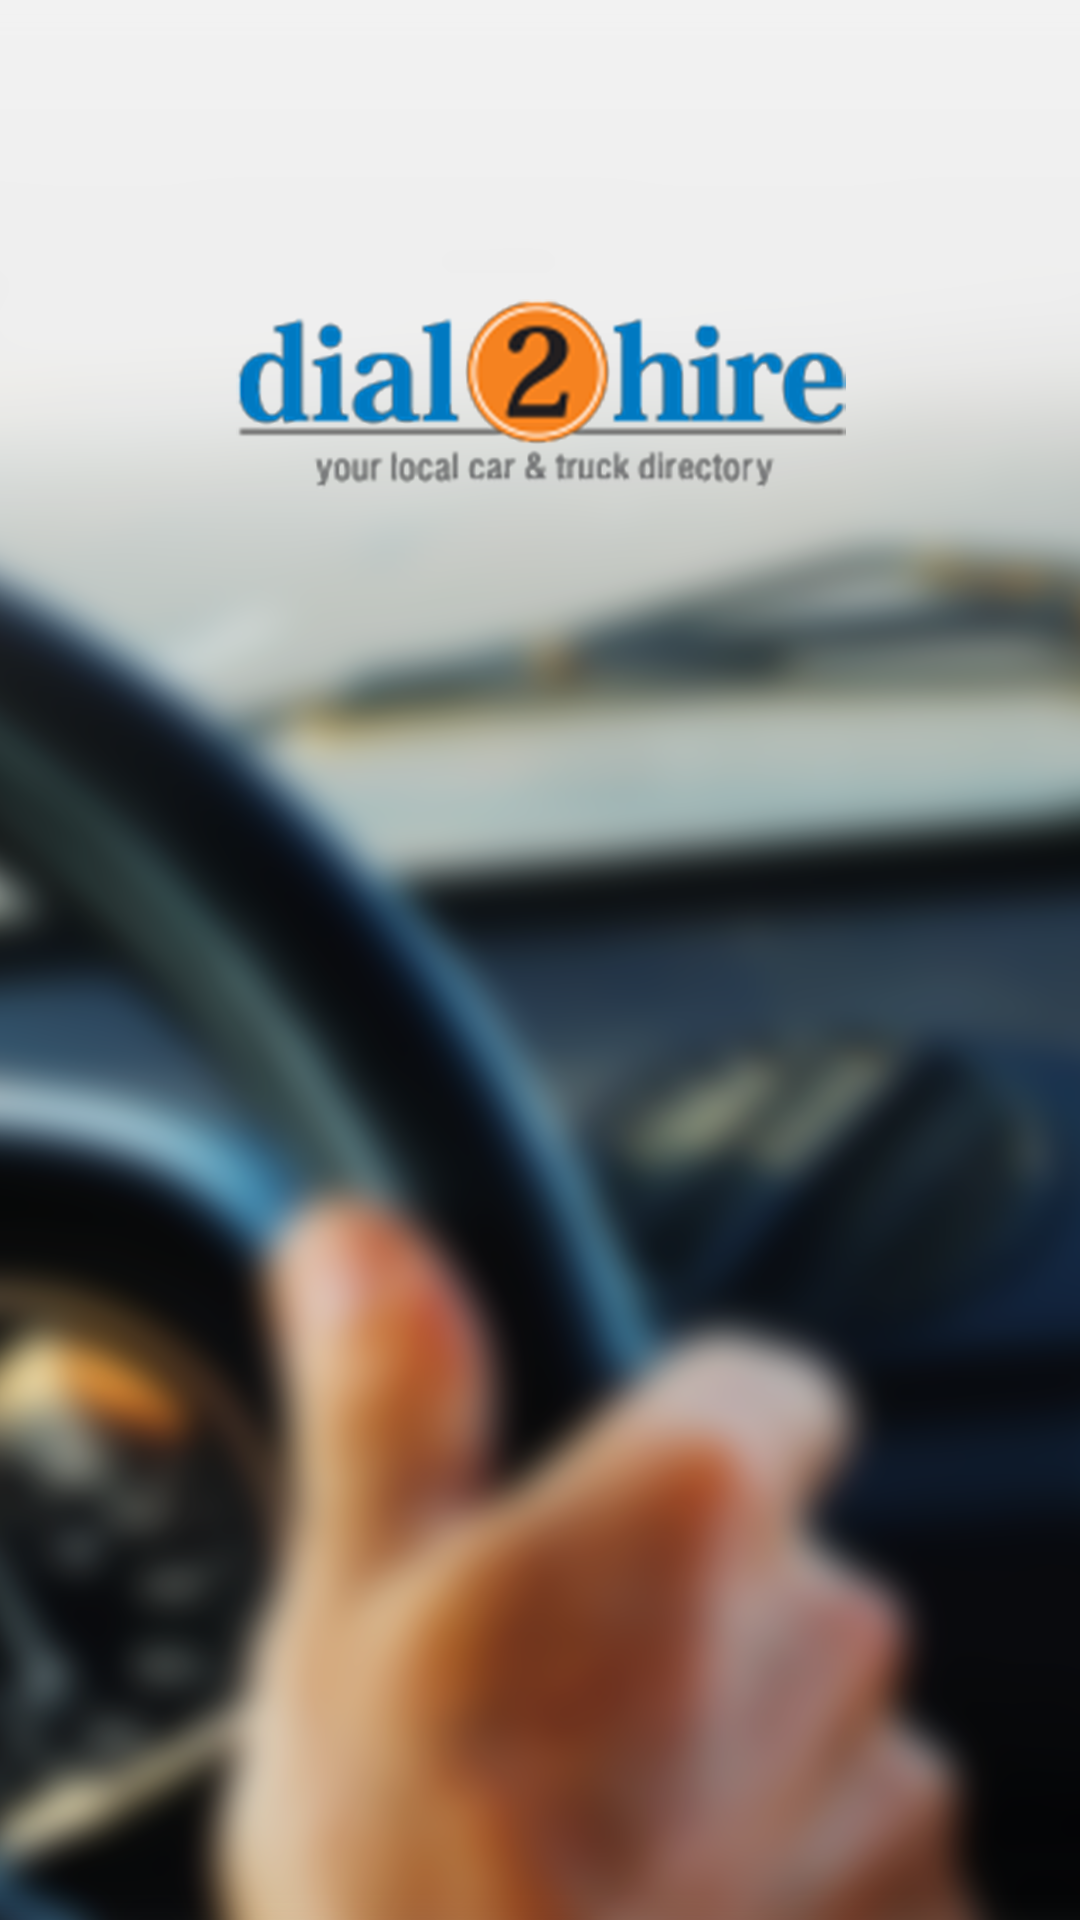
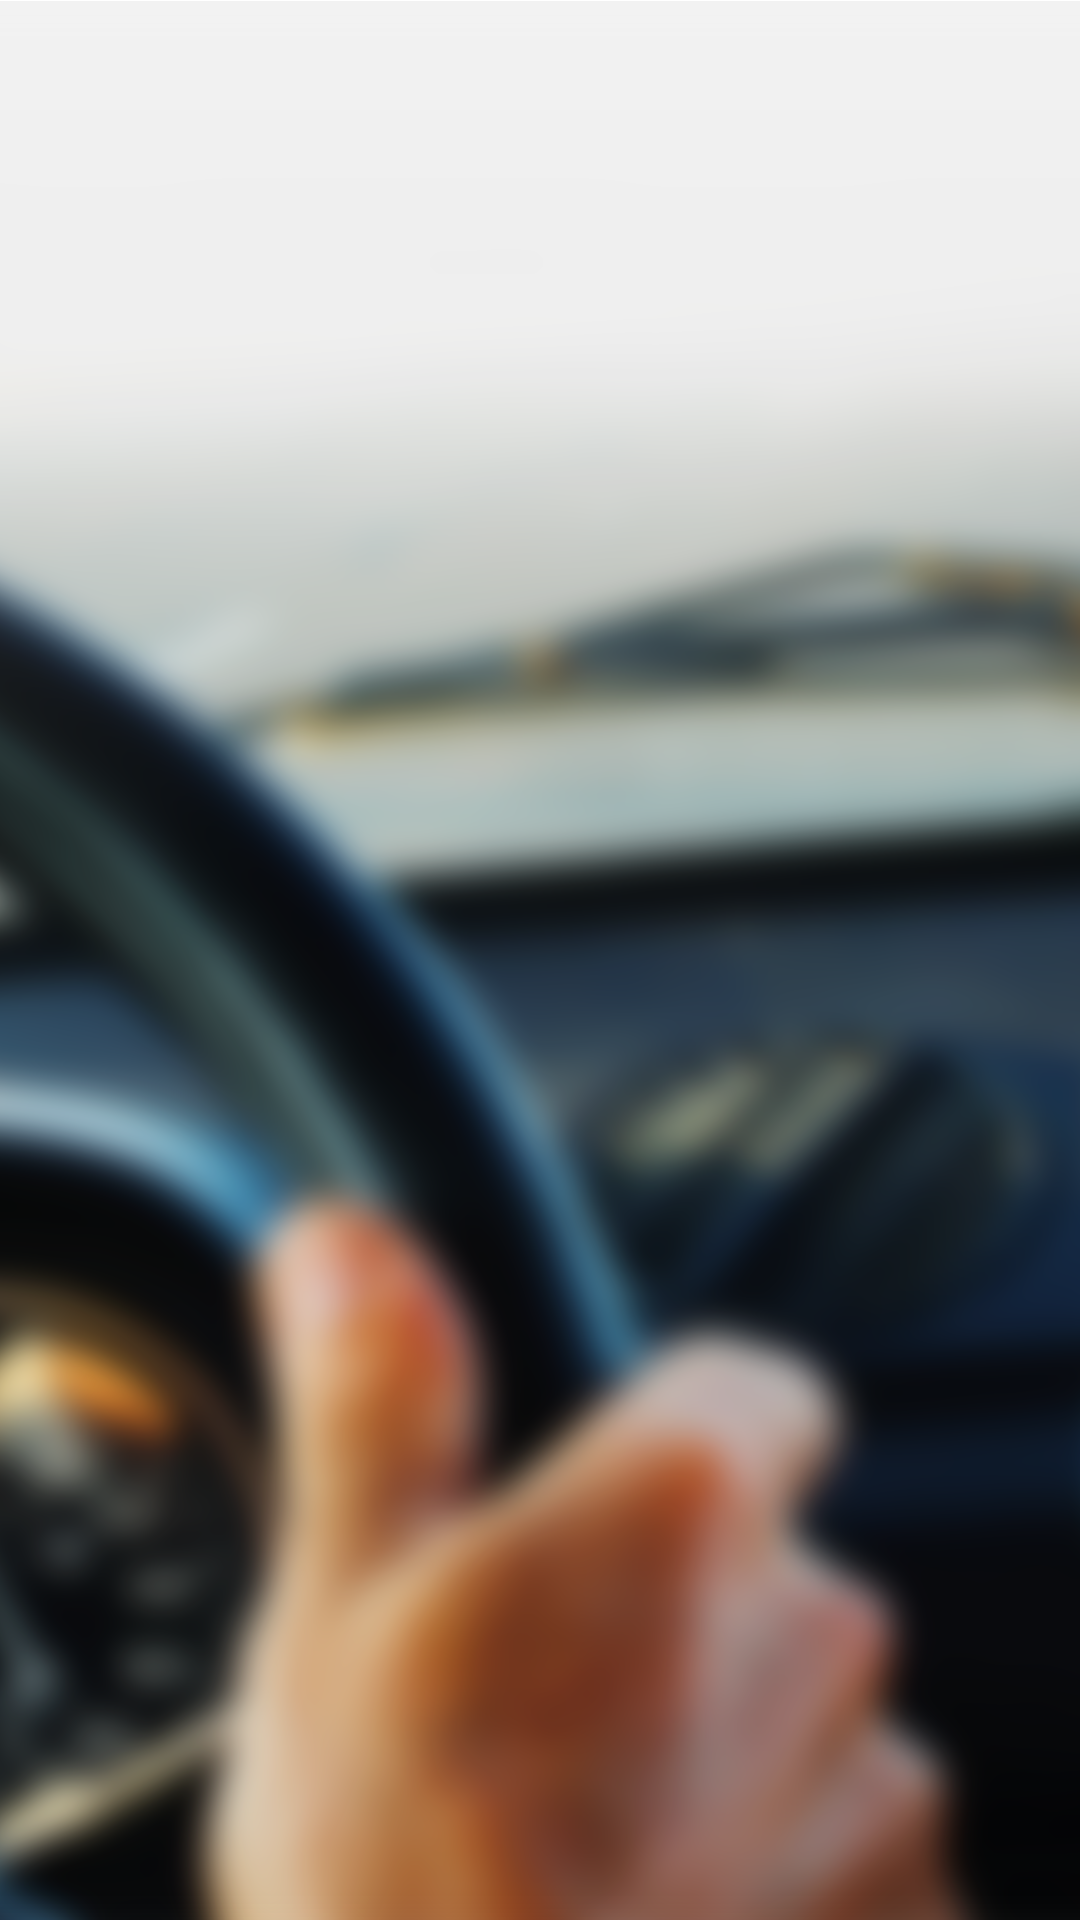
login, signup & otp

diff --git a/www/css/style.css b/www/css/style.css
@@ -6,7 +6,7 @@ color: #FF6F11 !important;
 .loginbg
 {
     
- background: url(../img/bg.png) no-repeat center center fixed; 
+ background: url(../img/bg2.png) no-repeat center center fixed; 
  -webkit-background-size: cover;
  -moz-background-size: cover;
  -o-background-size: cover;
@@ -21,7 +21,7 @@ background-color: white;
 /*signup page*/
 .item1 {
   border-color: #ddd;
-  background-color: #fff;
+ /* background-color: #fff;*/
   color: #444;
   position: relative;
   z-index: 2;
@@ -35,12 +35,11 @@ background-color: white;
 border-bottom: #0079c1 3px solid;
 }
 
-.border2{
-    border-bottom: #0079c1 2px solid;
-}
+
 .signup
 {
 text-align: center;
+font-size: larger !importantn;  
 }
 
 .signupbox
@@ -55,7 +54,7 @@ padding: 5%;
     border-radius: 71px;
     padding: 11px;
     border: #EAEAF1 3px double !important;
-  font-weight: 900;
+  /*font-weight: 900;*/
     border-color: #F58220;
     background-color: #F9790B;
     color: black; 
@@ -87,7 +86,7 @@ background-color: #F58220;
 }
 .thankyou
 {
-    text-align: center;
+   
     margin-top: 28vh;
     font-weight: 200;
     color: white;
@@ -95,17 +94,24 @@ background-color: #F58220;
 }
 .thankyou2
 {
-       text-align: center;
-    margin-top: 19vh;
+       
     font-weight: 100;
     color: #060606;
 }
 
 .thankyou3
 {
-  text-align: center;
+  
    
     font-weight: 100;
     color: #060606;
 }
 
+.entercode {
+  border-color: red !important;
+  color: red !important;
+  position: relative;
+  z-index: 2;
+  display: block;
+  
+}

diff --git a/www/templates/otp.html b/www/templates/otp.html
@@ -21,9 +21,19 @@
     -->
  
   <ion-content class="otpbg " ><!--class="loginbg"-->
-  <div class="thankyou" >THANK YOU </div>
- <div class="thankyou2" >We have sent you a confirmation code. </div>
- <div class="thankyou3" >You should get it soon. </div>
+  <div class="thankyou"><center>THANK YOU </center></div>
+  
+ <div class="list row responsive-sm" style=" left: 2vh; top: 3vh;">
+   <label class="item1 item-input entercode col ">
+    <input type="number" placeholder="ENTER CODE"  style=" text-align:center; font-size: 20px !important; font-weight:800; ">
+  </label>
+  
+</div>
+ 
+</div>
+  
+ <div class="thankyou2" ><center>We have sent you a confirmation code. </center></div>
+ <div  class="thankyou3"><center>You should get it soon.</center> </div>
  
  <div style="padding-left: 43%;"> 
 <button class="button  gobutton2" >
@@ -31,7 +41,7 @@
 </button>
 
 </div>
-<div  style="text-align:center; padding-left:3%;">
+<div style="text-align:center; padding-left:3%;">
     <button class="button  resendbutton" style="top:9vh;">
  Resend
 </button>

diff --git a/www/templates/signup.html b/www/templates/signup.html
@@ -27,19 +27,19 @@
     <input type="text" placeholder="Whats your Name?" class="signup">
   </label>
    <label class="item1 item-input border">
-    <input type="text" placeholder="Mobile number" class="signup">
+    <input type="number" placeholder="Mobile number" class="signup">
   </label>
    <label class="item1 item-input border" >
     <input type="password" placeholder="Password" class="signup">
   </label>
-   <label class="item1 item-input border2">
+   <label class="item1 item-input border">
     <input type="text" placeholder="City" class="signup">
   </label>
   
 </div>
  <div style="padding-left: 43%;"> 
 
- <button  ng-click="signup()" class="button  gobutton" >
+ <button  ng-click="signup()" class="button  gobutton" style="box-shadow: black 2px 2px 3px; font-size: x-large; padding: 6px;" >
  Go
 </button>
       </div>

diff --git a/www/templates/login.html b/www/templates/login.html
@@ -28,7 +28,7 @@
  
        <div class="list" style="top:19vh;    width: 95%; padding-left: 6%;">
   <label class="item item-input" style="margin-bottom:10px; border-radius: 8px;">
-    <input type="text"  ng-model="loginData.username" placeholder="Phone ">
+    <input type="number"  ng-model="loginData.username" placeholder="Phone">
   </label>
   <label class="item item-input" style="border-radius: 8px;">
     <input type="password"  ng-model="loginData.password" placeholder="Password">
